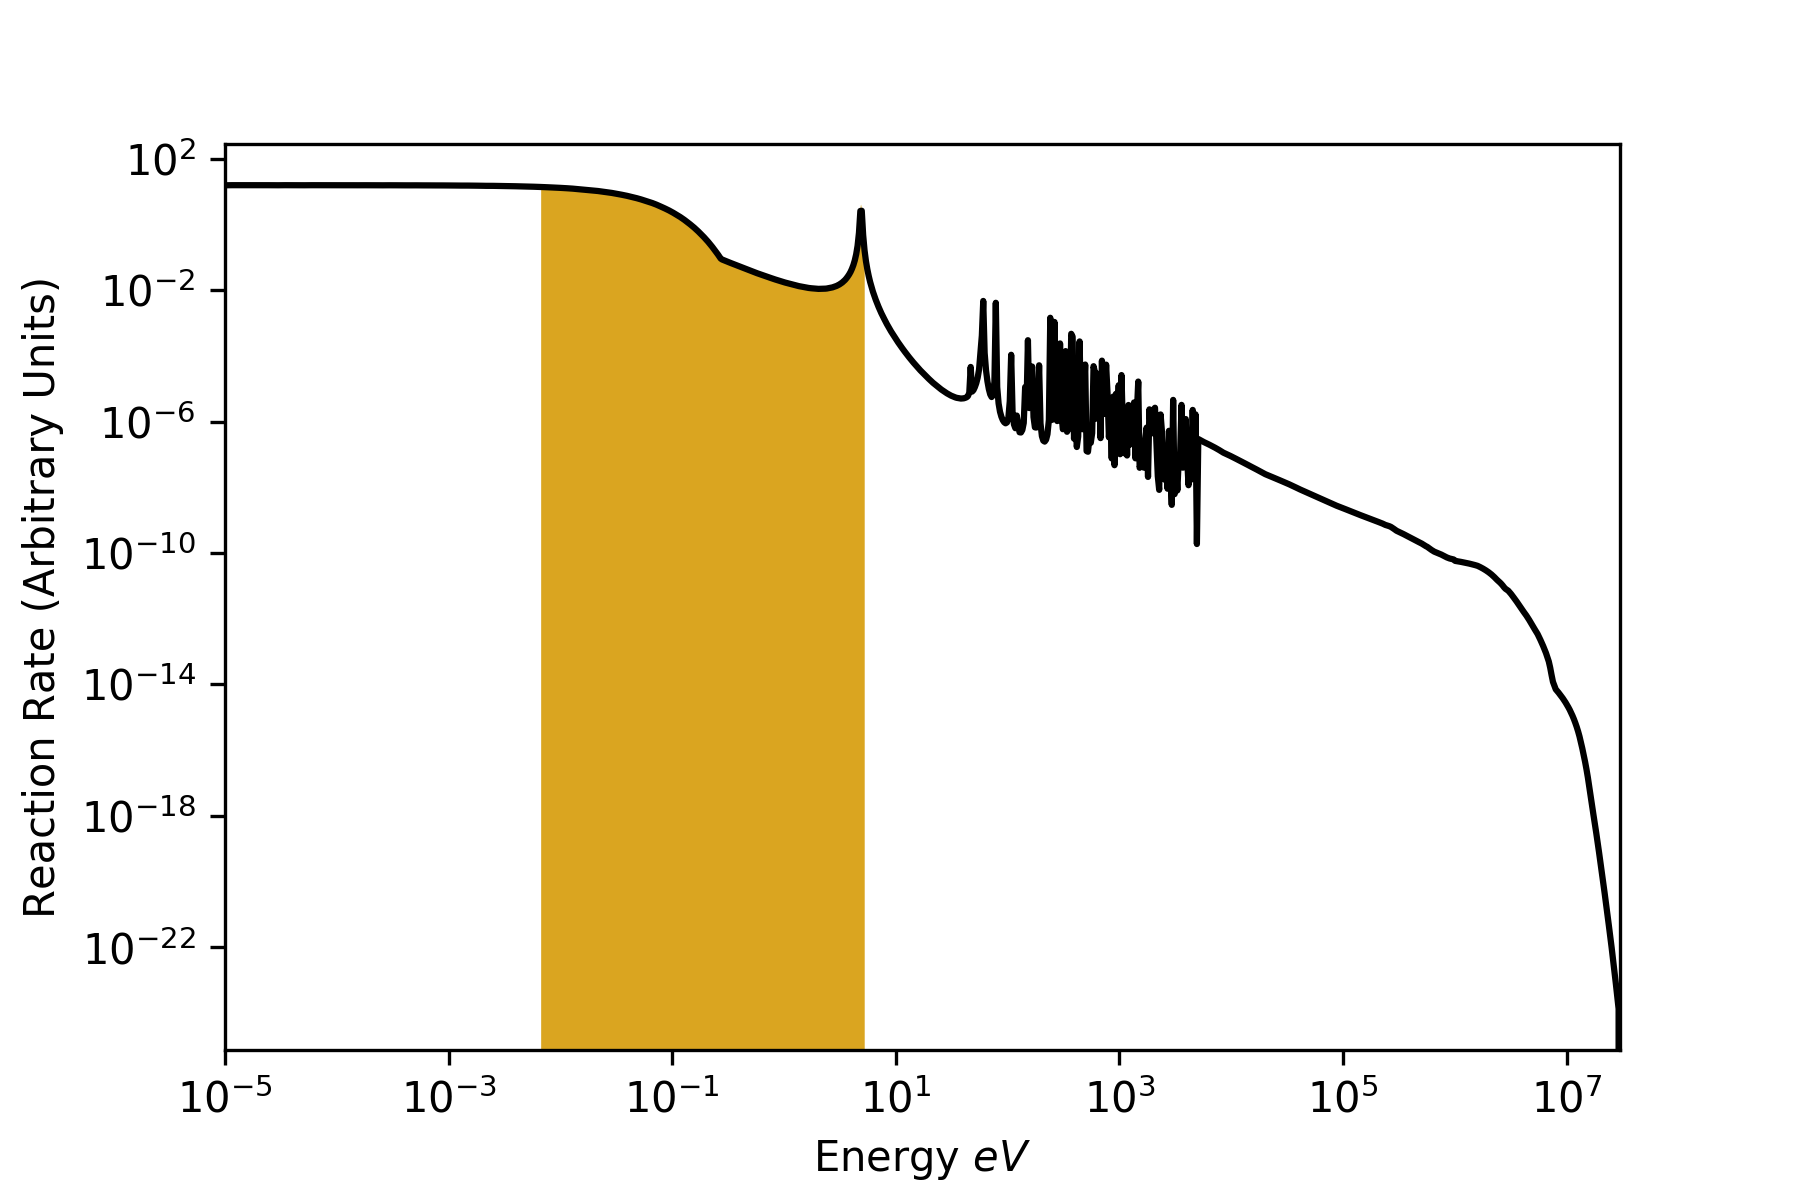
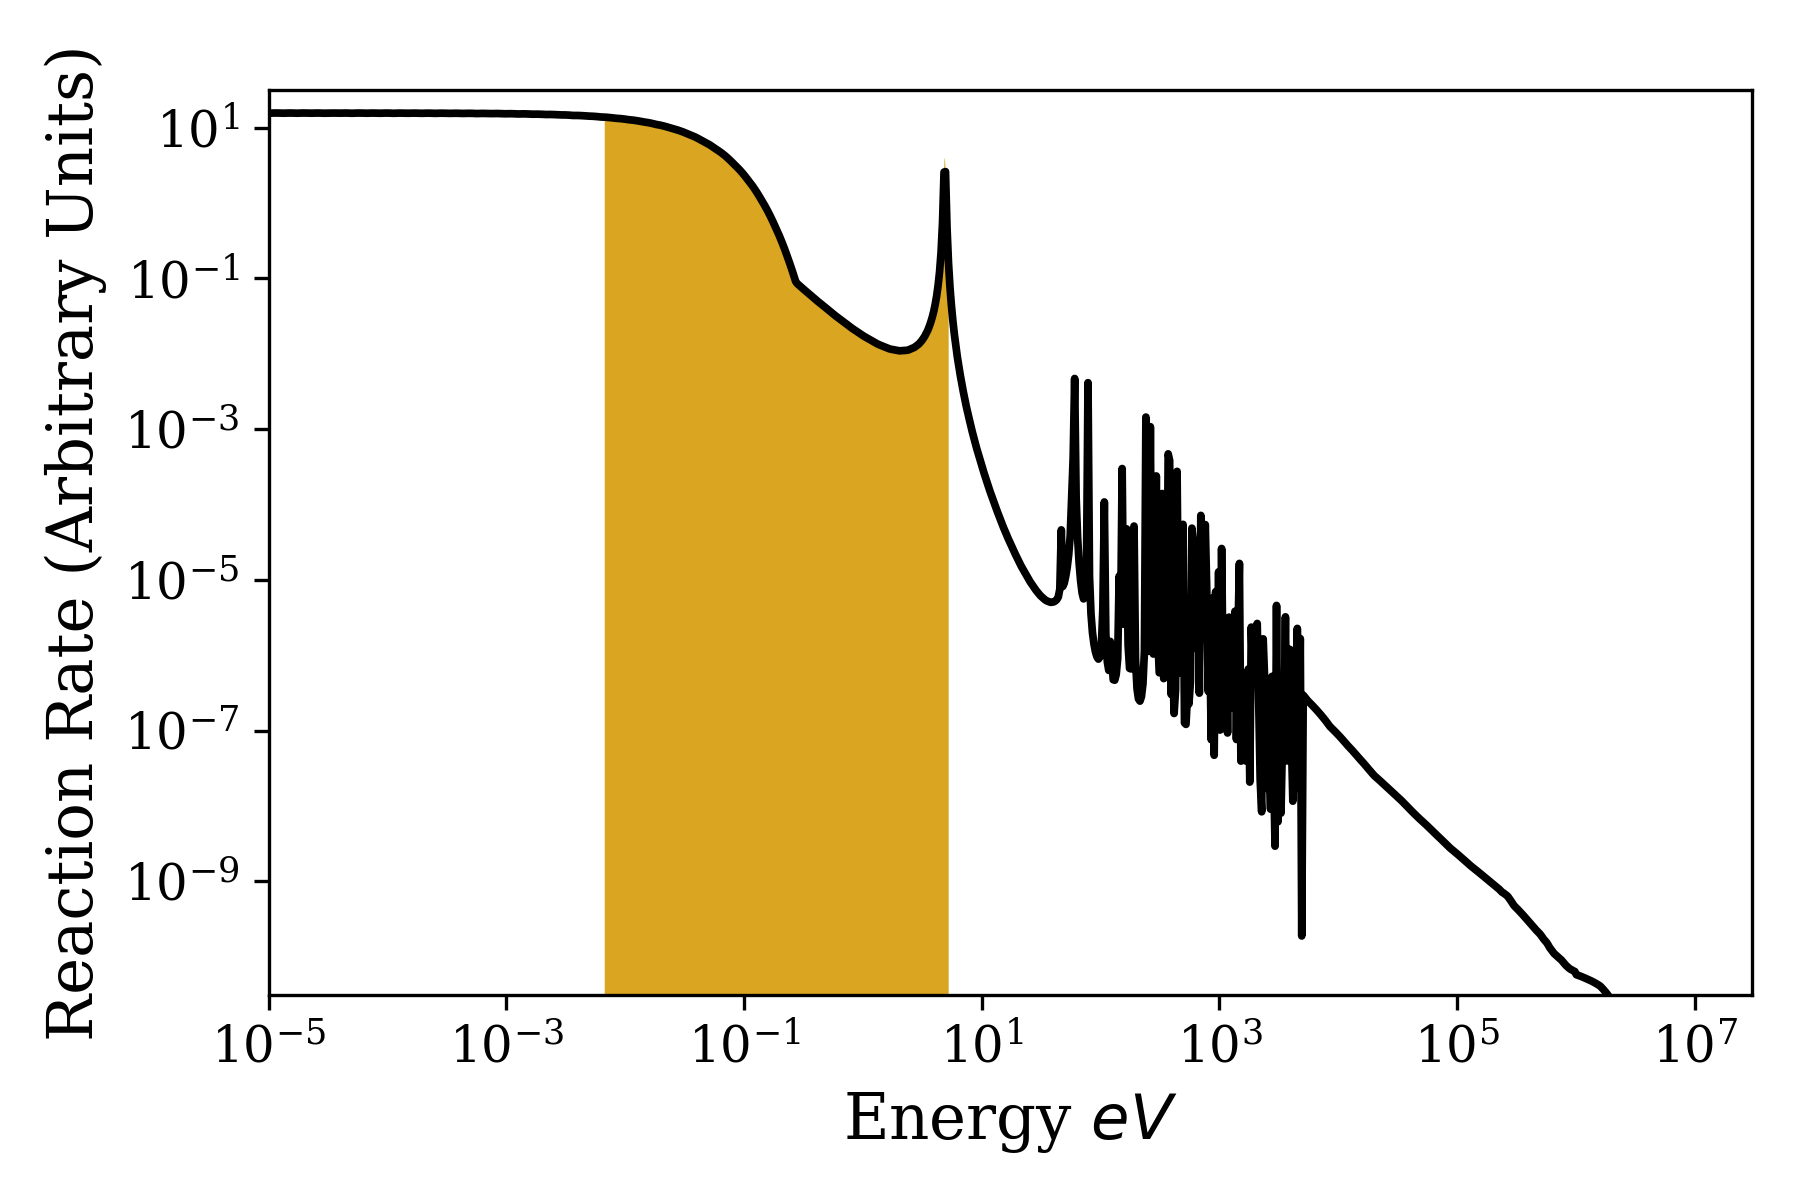
finished gold unshielded

diff --git a/activity/roi.py b/activity/roi.py
@@ -5,7 +5,7 @@ from matplotlib import rc, rcParams
 from scipy.integrate import quad
 from scipy.optimize import fsolve
 
-from cross_sections import foils
+from cross_sections import foils, Cd
 from flux_spectrum import Flux
 
 ###############################################################################
@@ -53,19 +53,36 @@ plt.close(fig)
 #                               cadmium
 ###############################################################################
 
+
 # cadmium factor
-cd = lambda e: 1
+def no_cd(e):
+    return 1
+
+
+def ya_cd(e):
+    # facts of life
+    Na = 6.0221409E23  # atoms / mol
+    cd_thickness = 0.05
+
+    term = ((Cd['rho'] * Na) / Cd['M']) * cd_thickness * 1E-24
+    cd_xs = Cd['reactions']['n,tot']['func']
+    factor = np.exp(-term * cd_xs(e) * 5)
+    return factor
 
 ###############################################################################
 #                               roi
 ###############################################################################
 
 
-def roi(sigma, phi, cd, recalculate=False):
+def roi(sigma, phi, cd, cd_cov=False, recalculate=False):
     region = sigma['region']
     roi = sigma['roi']
     xs = sigma['func']
     plotname = sigma['plotname']
+
+    if cd_cov:
+        roi = sigma['roi_cd']
+        plotname += '_cd'
 
     # find where zero
     # e = np.geomspace(region[0], region[1], 1000)
@@ -122,20 +139,33 @@ def roi(sigma, phi, cd, recalculate=False):
     ax.set_xscale('log')
     ax.set_yscale('log')
     ax.set_xlim(*region)
+    y_upper_lim = np.max(xss) * 2
+    if np.log(np.max(xss)) - np.log(np.min(xss)) > 28:
+        ax.set_ylim(y_upper_lim * 1e-12, y_upper_lim)
+    else:
+        ax.set_ylim(np.min(xss), y_upper_lim)
     plt.savefig('plot/{}.png'.format(plotname), dpi=300)
+    plt.close(fig)
 
     return left, right
 
 
-# do it
-xs = foils['Au']['reactions']['n,gamma']
-left, right = roi(xs, phi, cd, False)
-'''
-for foil in foils.values():
-    for xs in foil['reactions'].values():
-        print(xs['\n plotname'])
-        #left, right = roi(xs, phi, cd, False)
-        left, right = xs['roi'][0], xs['roi'][1]
-        print('Left: {:6.4e}'.format(left))
-        print('Right: {:6.4e}'.format(right))
-'''
+# test individual case
+test = False
+if test:
+    xs = foils['Au']['reactions']['n,gamma']
+    left, right = roi(xs, phi, ya_cd, False, False)
+
+
+# run full simulation using each foil
+# gold
+for xs in foils['Au']['reactions'].values():
+    print('\n' + xs['plotname'])
+    left, right = roi(xs, phi, no_cd, False, True)
+    print('Left: {:6.4e}'.format(left))
+    print('Right: {:6.4e}'.format(right))
+
+#    print('\n' + xs['plotname'] + '  (Cd)')
+#    left, right = roi(xs, phi, ya_cd, True, True)
+#    print('Left: {:6.4e}'.format(left))
+#    print('Right: {:6.4e}'.format(right))

diff --git a/activity/cross_sections.py b/activity/cross_sections.py
@@ -137,7 +137,8 @@ Au['reactions']['n,gamma'] = {}
 f, r = extract('79-Au-197(n,&gamma;).txt')
 Au['reactions']['n,gamma']['func'] = f
 Au['reactions']['n,gamma']['region'] = r
-Au['reactions']['n,gamma']['roi'] = 0.00672659373843, 5.26843714747
+Au['reactions']['n,gamma']['roi'] = 6.7266e-03, 5.2684e+00  # computed
+Au['reactions']['n,gamma']['roi_cd'] = 1, 9  # initial guess
 Au['reactions']['n,gamma']['halflife'] = 2.7 * 60 * 60 * 24  # s
 Au['reactions']['n,gamma']['label'] = r'($n,\gamma$)'
 Au['reactions']['n,gamma']['erg'] = [(0.95, 412), (0.01, 676), (0.002, 1088)]  # intensity, keV
@@ -147,7 +148,8 @@ Au['reactions']['n,2n'] = {}
 f, r = extract('79-Au-197(n,2n).txt')
 Au['reactions']['n,2n']['func'] = f
 Au['reactions']['n,2n']['region'] = r
-Au['reactions']['n,2n']['roi'] = r
+Au['reactions']['n,2n']['roi'] = 8.8259e+06, 1.3510e+07  # computed
+Au['reactions']['n,2n']['roi_cd'] = 8.8259e+06, 1.3510e+07  # initial guess
 Au['reactions']['n,2n']['halflife'] = 6.18 * 60 * 60 * 24  # s
 Au['reactions']['n,2n']['label'] = r'($n,2n$)'
 Au['reactions']['n,2n']['erg'] = [(0.25, 333), (0.94, 356), (0.06, 426), (0.002, 1091)]  # intensity, keV
@@ -157,7 +159,8 @@ Au['reactions']['n,inelastic'] = {}
 f, r = extract('79-Au-197(n,inelastic).txt')
 Au['reactions']['n,inelastic']['func'] = f
 Au['reactions']['n,inelastic']['region'] = r
-Au['reactions']['n,inelastic']['roi'] = r
+Au['reactions']['n,inelastic']['roi'] = 3.2404e+05, 5.2532e+06  # computed
+Au['reactions']['n,inelastic']['roi_cd'] = 3.2404e+05, 5.2532e+06  # initial guess
 Au['reactions']['n,inelastic']['halflife'] = 7.8  # s
 Au['reactions']['n,inelastic']['label'] = r"($n,n'$)"
 Au['reactions']['n,inelastic']['erg'] = [(0.08, 130), (0.75, 279)]  # intensity, keV
